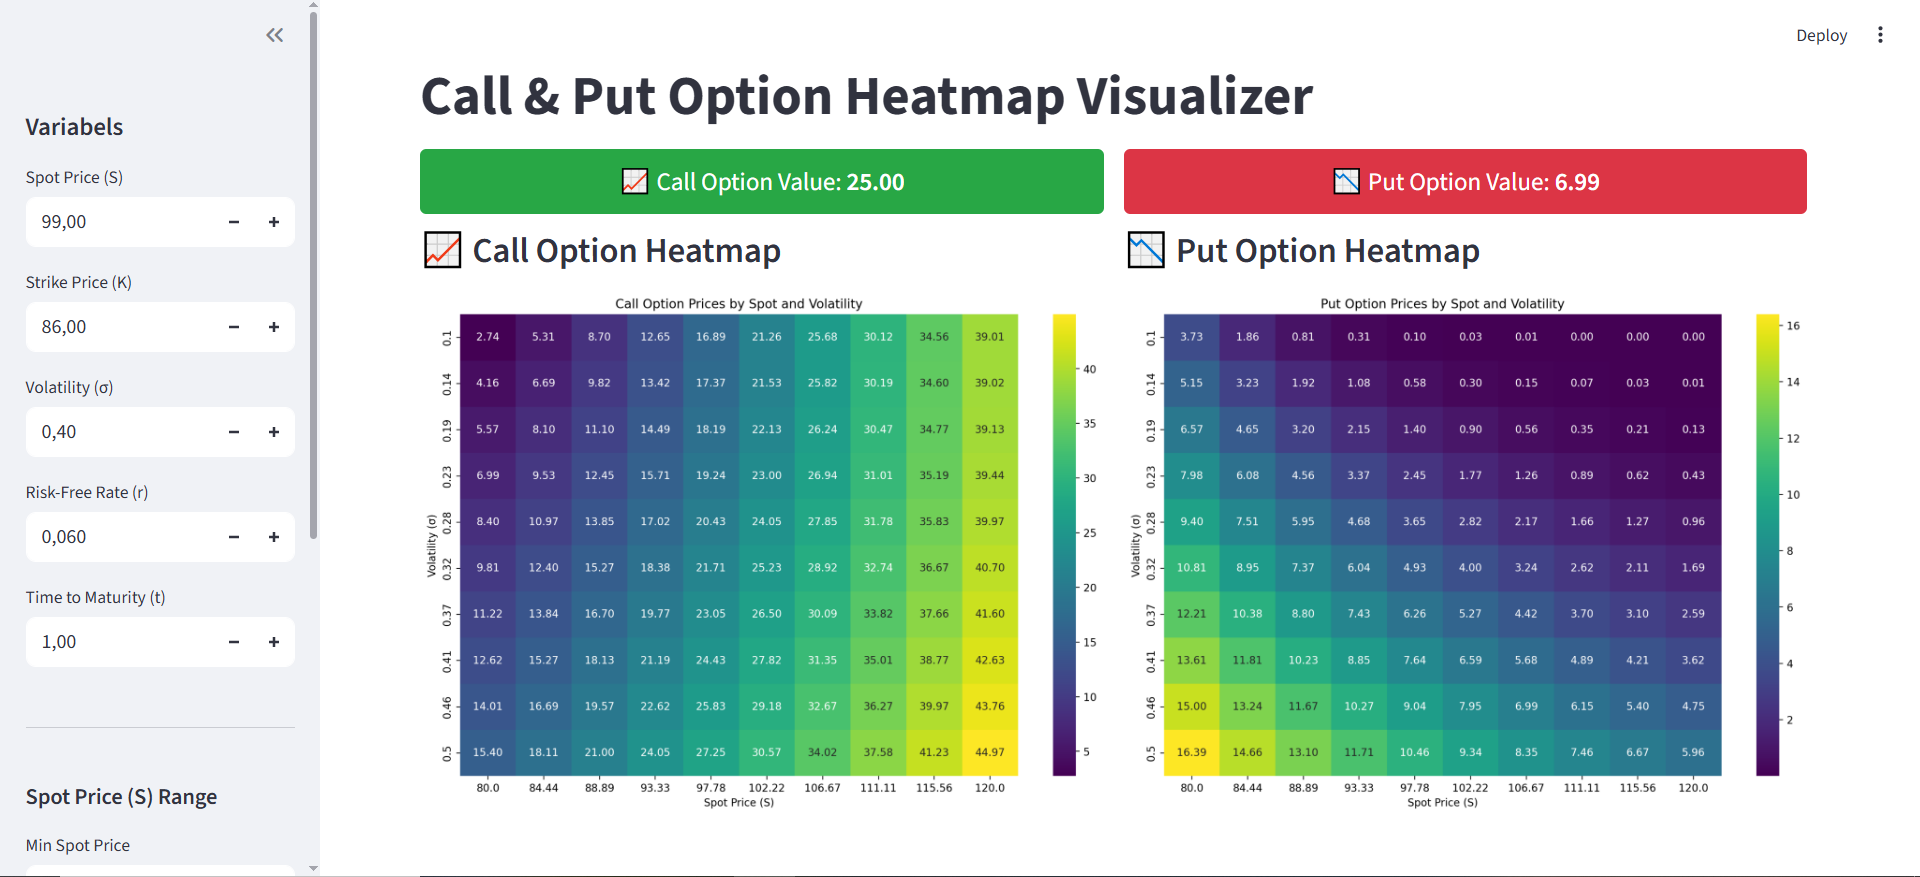
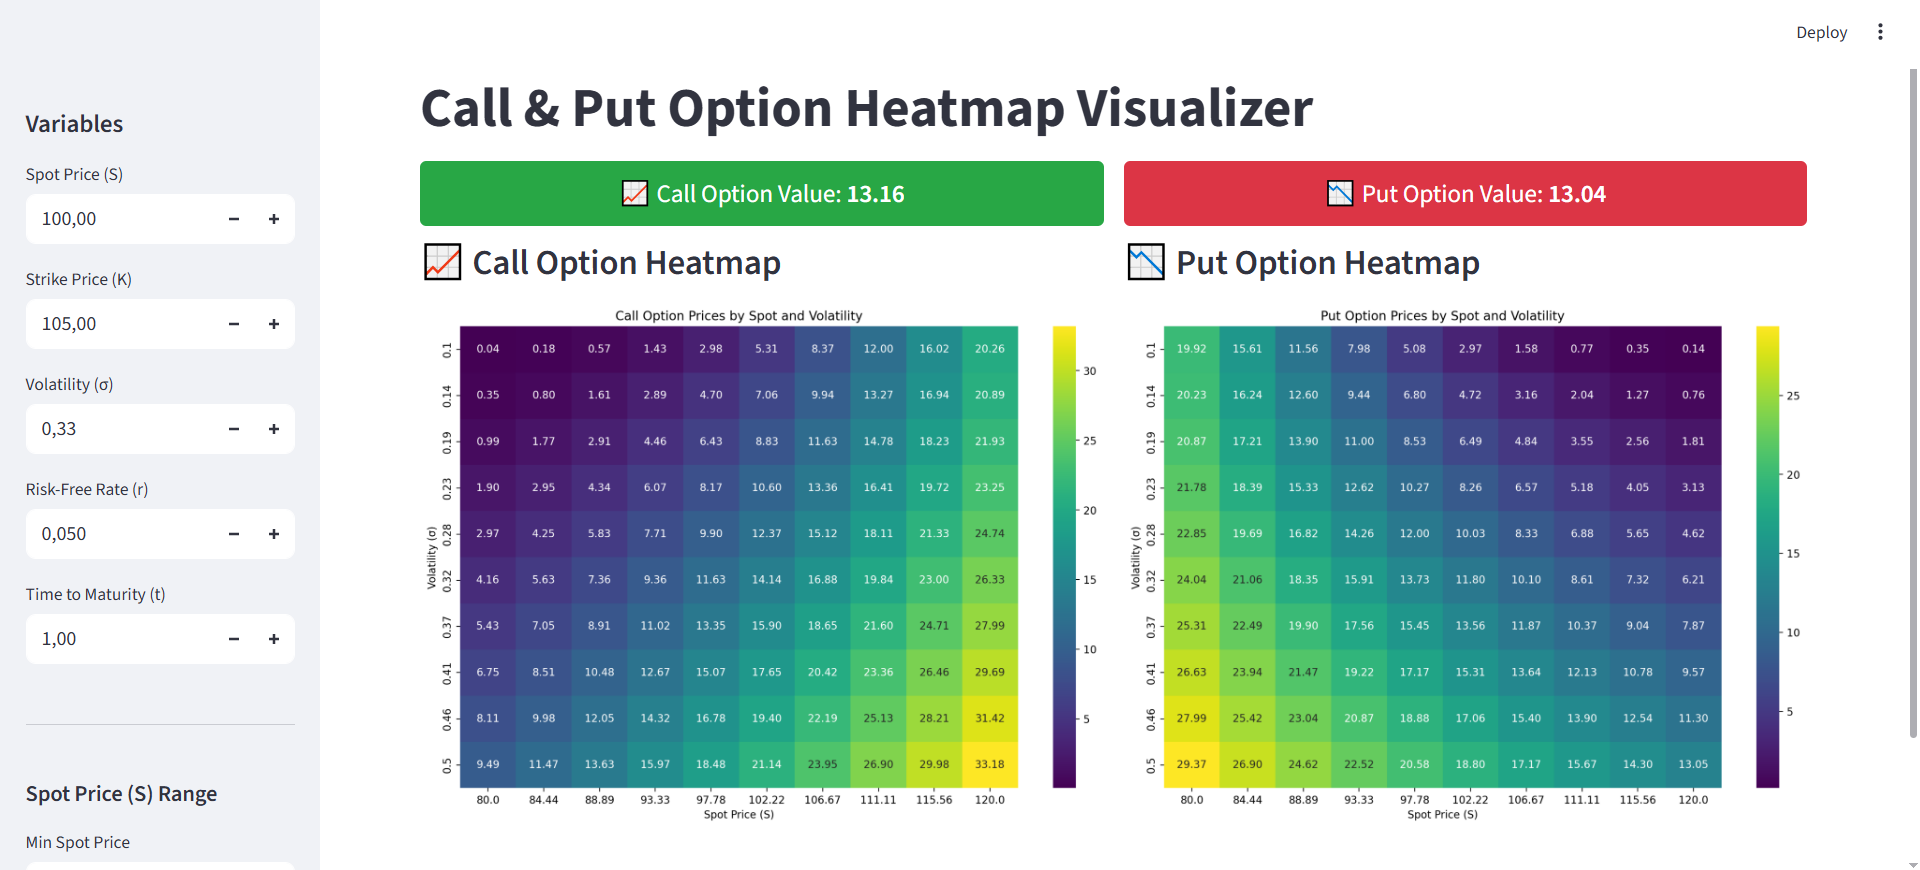
fixed typo

diff --git a/app.py b/app.py
@@ -6,7 +6,7 @@ st.set_page_config(page_title="Call & Put Option Heatmap", layout="wide")
 
 st.title("Call & Put Option Heatmap Visualizer")
 
-st.sidebar.header("Variabels")
+st.sidebar.header("Variables")
 # Strike, Rate, and Time remain single values
 s = st.sidebar.number_input("Spot Price (S)", value=100.0, step=1.0)
 k = st.sidebar.number_input("Strike Price (K)", value=105.0, step=1.0)
